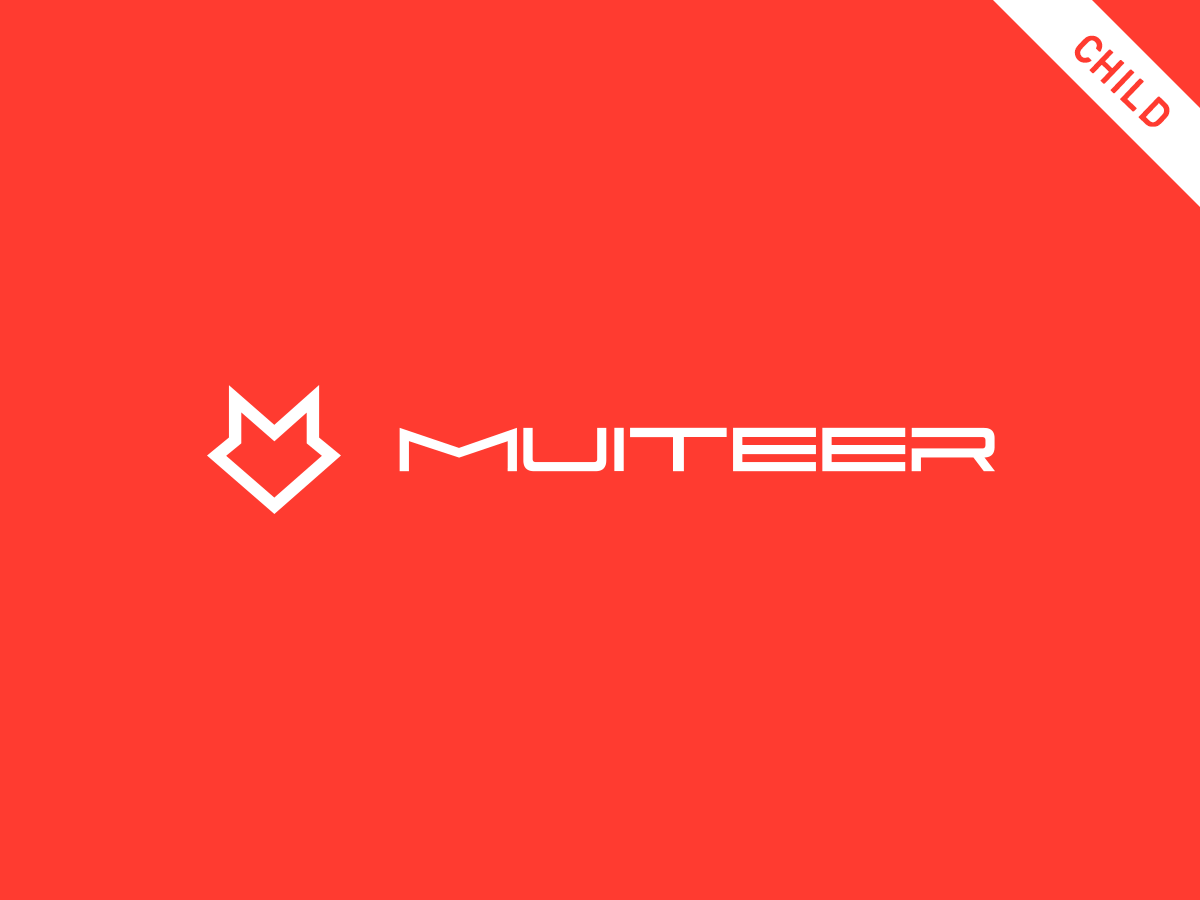
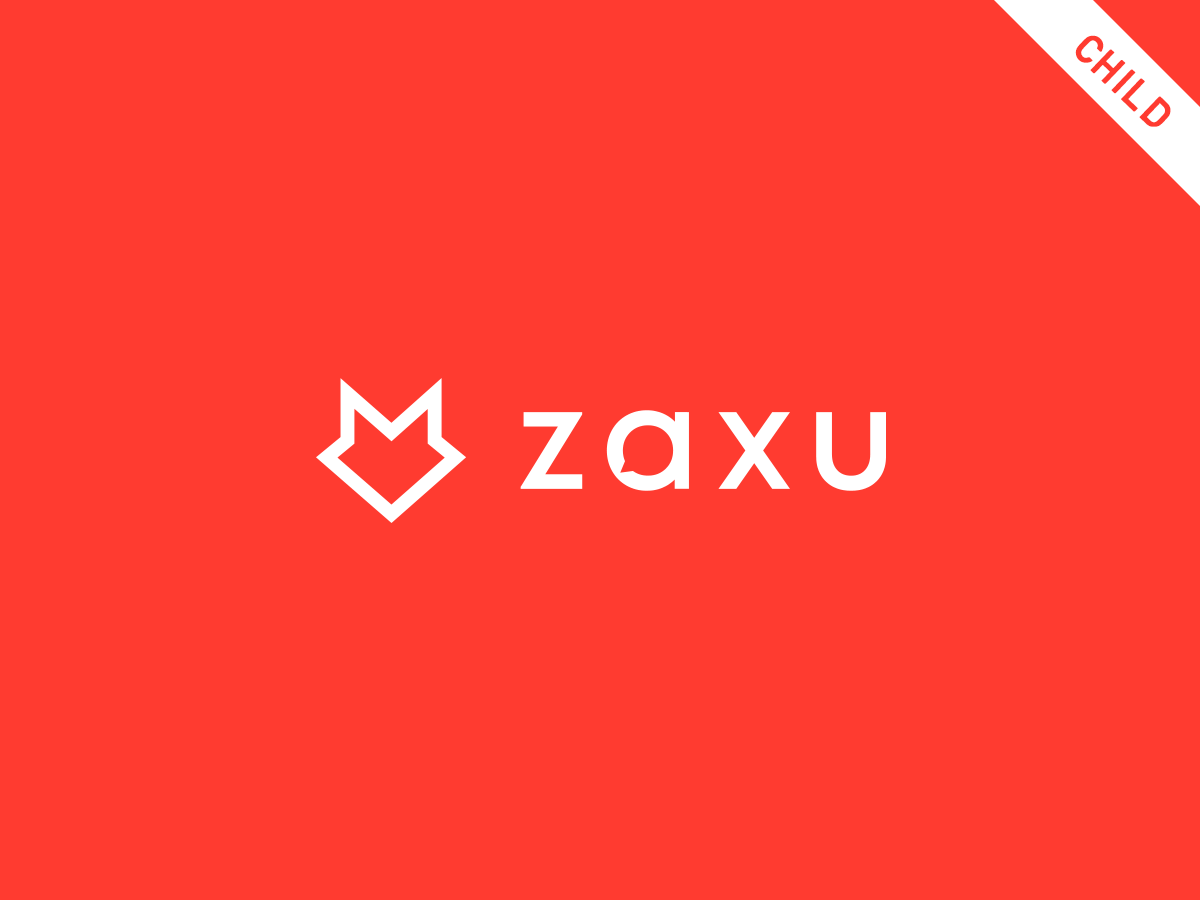
Changed the theme name: ZAXU

Changed region(s): [[0.1542, 0.4044, 0.8325, 0.5911], [0.8942, 0.0311, 0.9558, 0.1244]]

diff --git a/style.css b/style.css
@@ -1,14 +1,12 @@
-@charset "UTF-8";
-
 /*
-Theme Name: Muiteer Child
-Theme URI: http://muiteer.com
-Description: A basic child theme for the Muiteer theme.
-Author: Muiteer
-Author URI: http://muiteer.com
-Template: muiteer
-Version: 1.0.5
-Tested up to: 5.4.1
+Theme Name: ZAXU CHILD
+Theme URI: http://zaxu.com
+Author: ZAXU
+Author URI: http://zaxu.com
+Description: A basic child theme for the ZAXU theme.
+Template: zaxu
+Version: 1.0.6
+Tested up to: 5.4.2
 Requires at least: 4.4
 Requires PHP: 5.6
 */

diff --git a/main.js b/main.js
@@ -1,5 +1,5 @@
 "use strict";
 
-function muiteerCallBack() {
+function zaxuCallBack() {
 	// Theme customization starts here
 }

diff --git a/functions.php b/functions.php
@@ -1,17 +1,22 @@
 <?php
+/*
+ * @Description: Theme child functions
+ * @Version: 1.0.6
+ * @Author: ZAXU
+ * @Link: http://www.zaxu.com
+ * @Package: ZAXU
+ */ 
 
-/* This file should contain all the functions of the child theme. Most of the theme's functions can be overwritten (some are critical and shouldn't be tampered with). 
-*/
-
-function muiteer_enqueue_child_styles() {
-  $parent_style = 'muiteer-parent-style';
+function zaxu_enqueue_child_styles() {
+  $parent_style = 'zaxu-parent-style';
   wp_enqueue_style($parent_style, get_template_directory_uri() . '/style.css');
 
 }
-add_action('wp_enqueue_scripts', 'muiteer_enqueue_child_styles');
+add_action('wp_enqueue_scripts', 'zaxu_enqueue_child_styles');
 
-function muiteer_enqueue_child_scripts() {
-	$parent_script = 'muiteer-parent-script';
+function zaxu_enqueue_child_scripts() {
+  $parent_script = 'zaxu-parent-script';
     wp_enqueue_script($parent_script, get_stylesheet_directory_uri() . '/main.js', array('jquery'), '', true);
 }
-add_action('wp_enqueue_scripts', 'muiteer_enqueue_child_scripts');
+add_action('wp_enqueue_scripts', 'zaxu_enqueue_child_scripts');
+?>
